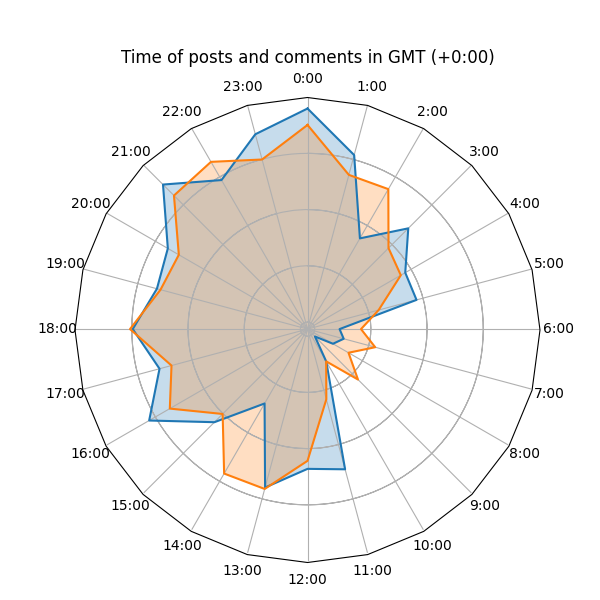
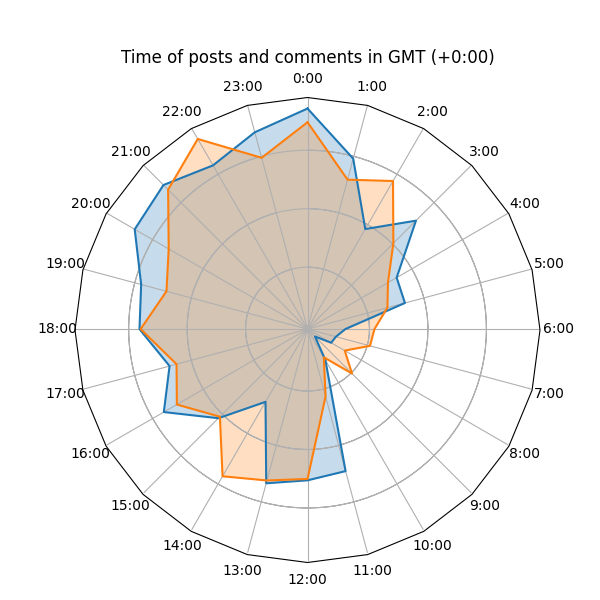
updated activity

diff --git a/website/activity/index.html b/website/activity/index.html
@@ -40,7 +40,7 @@
     <img class="smallcontent" src="website/activity/time.png" style="float: left">
     <img class="smallcontent" src="website/activity/day.png" style="float: left, display:block">
     <p class="important">
-    Last analysis: From start (10/3/2020) to 17/2/2021 <br>
+    Last analysis: From start (10/3/2020) to 21/4/2021 <br>
     Posts in blue, comments in orange
     </p>
     <section class="content">
